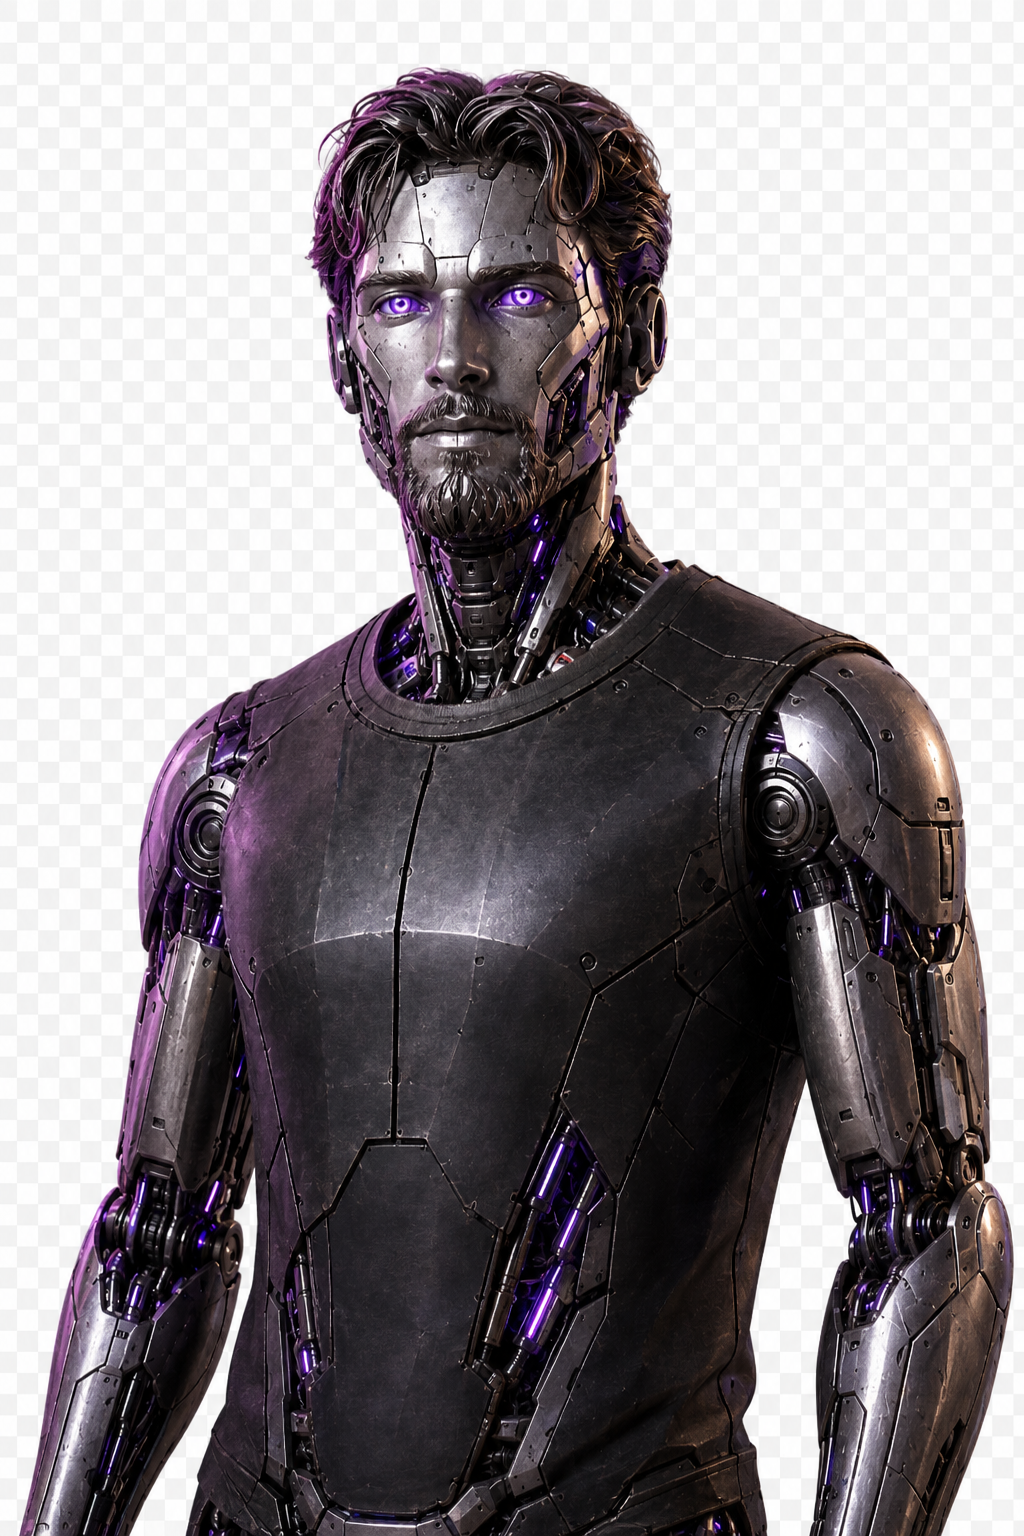
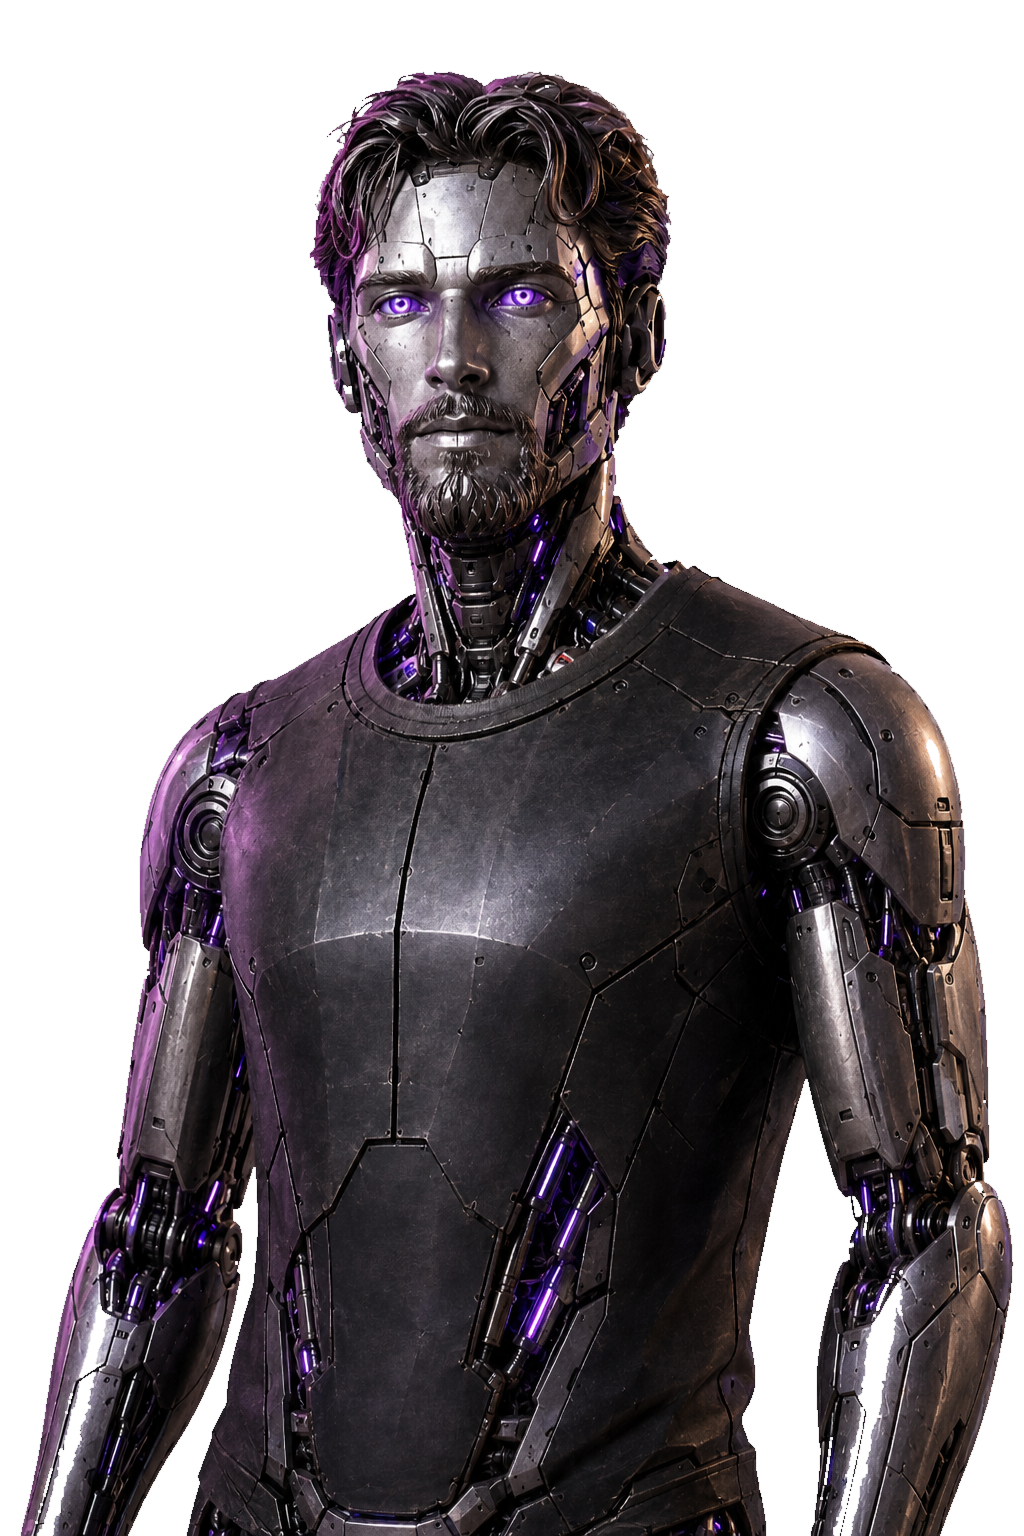
fix(remover): atualiza robo/humano pra versao final do recorte
Testes/revelar_android_hover.html foi atualizado la na origem pra usar
robo_revelacao_transparente.png / humano_revelacao_transparente.png (recorte
'final', melhor que a versao anterior). Copiado por cima de remover-robo.png e
remover-humano.png (palco nao mudou - md5 identico). Cache-bust ?v=2 nos <img
src> pra evitar servir os PNGs antigos do cache de 30 dias do nginx.

diff --git a/remover/index.html b/remover/index.html
@@ -255,12 +255,12 @@
       />
       <img
         class="layer human"
-        src="remover-humano.png"
+        src="remover-humano.png?v=2"
         alt="Humano por baixo da sobreposição"
       />
       <img
         class="layer robot"
-        src="remover-robo.png"
+        src="remover-robo.png?v=2"
         alt="Robô sobreposto ao humano"
       />
       <div class="lens" aria-hidden="true"></div>